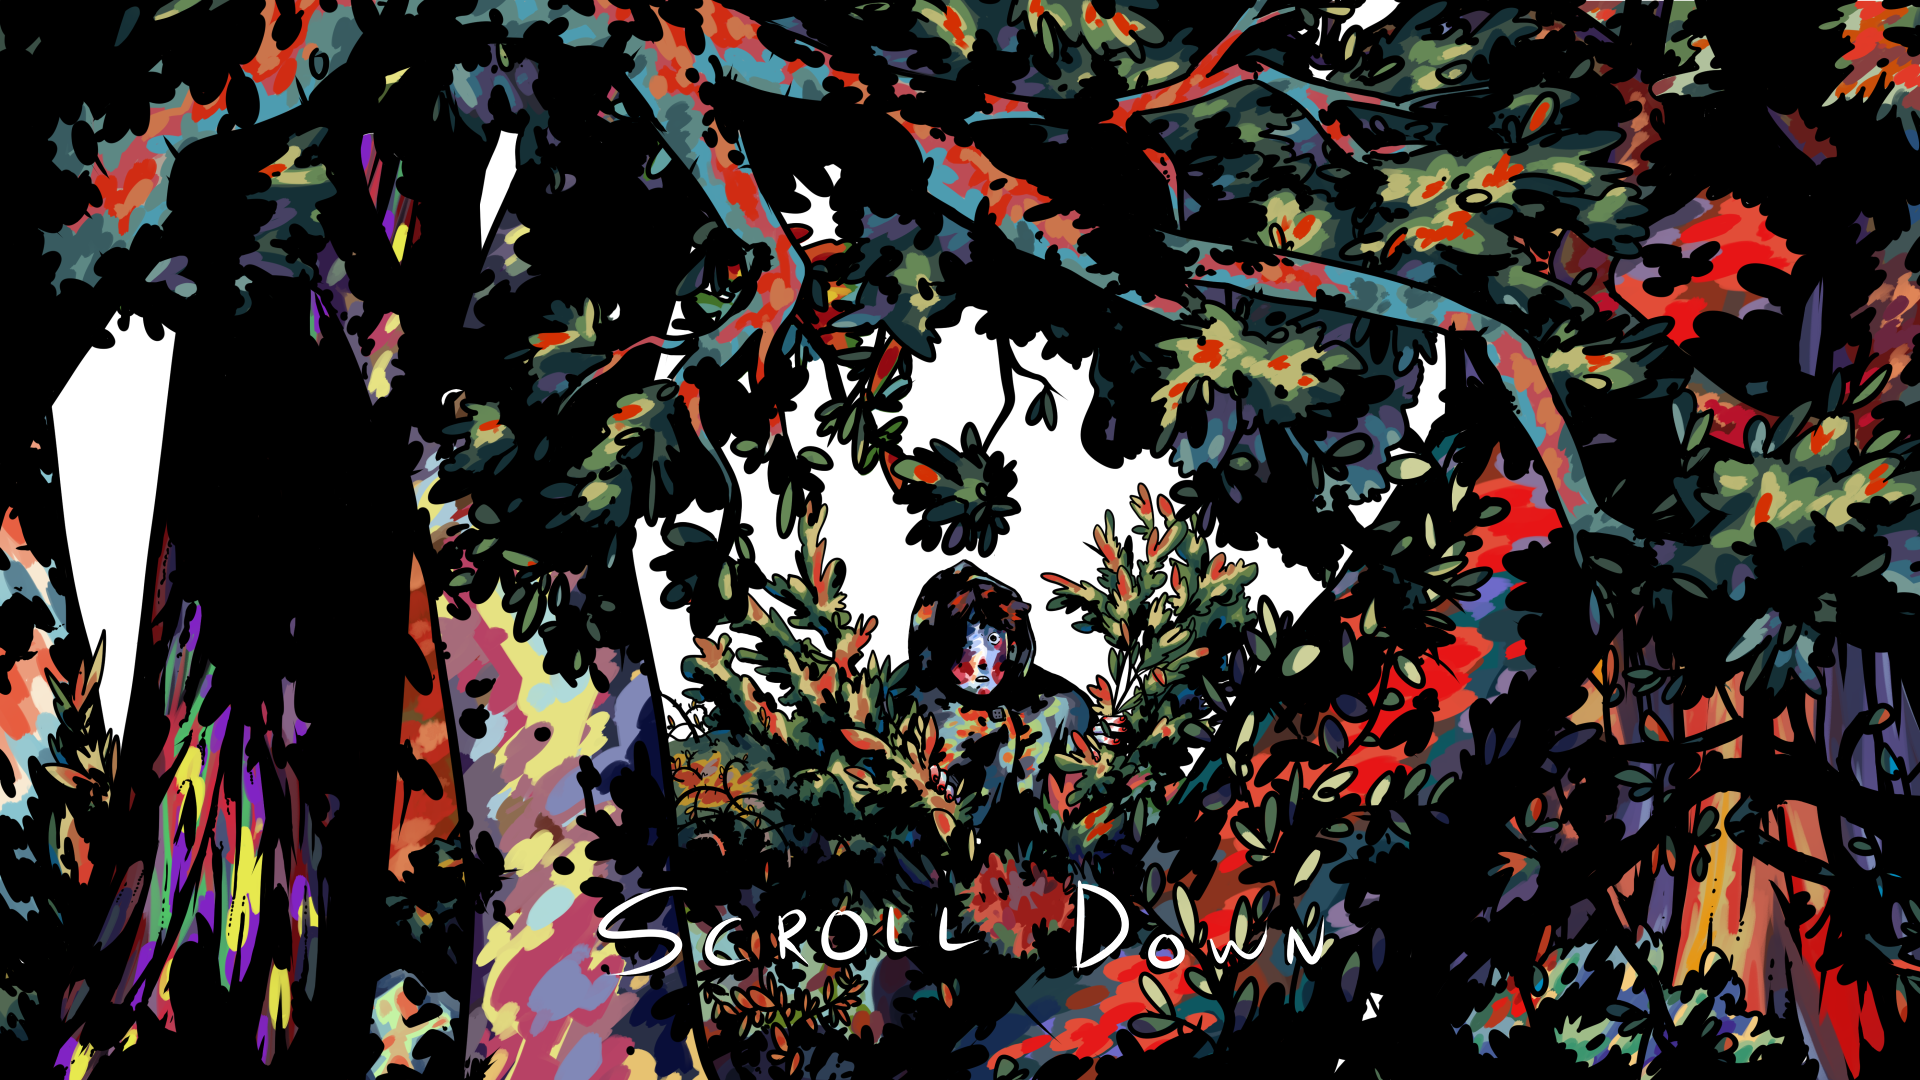
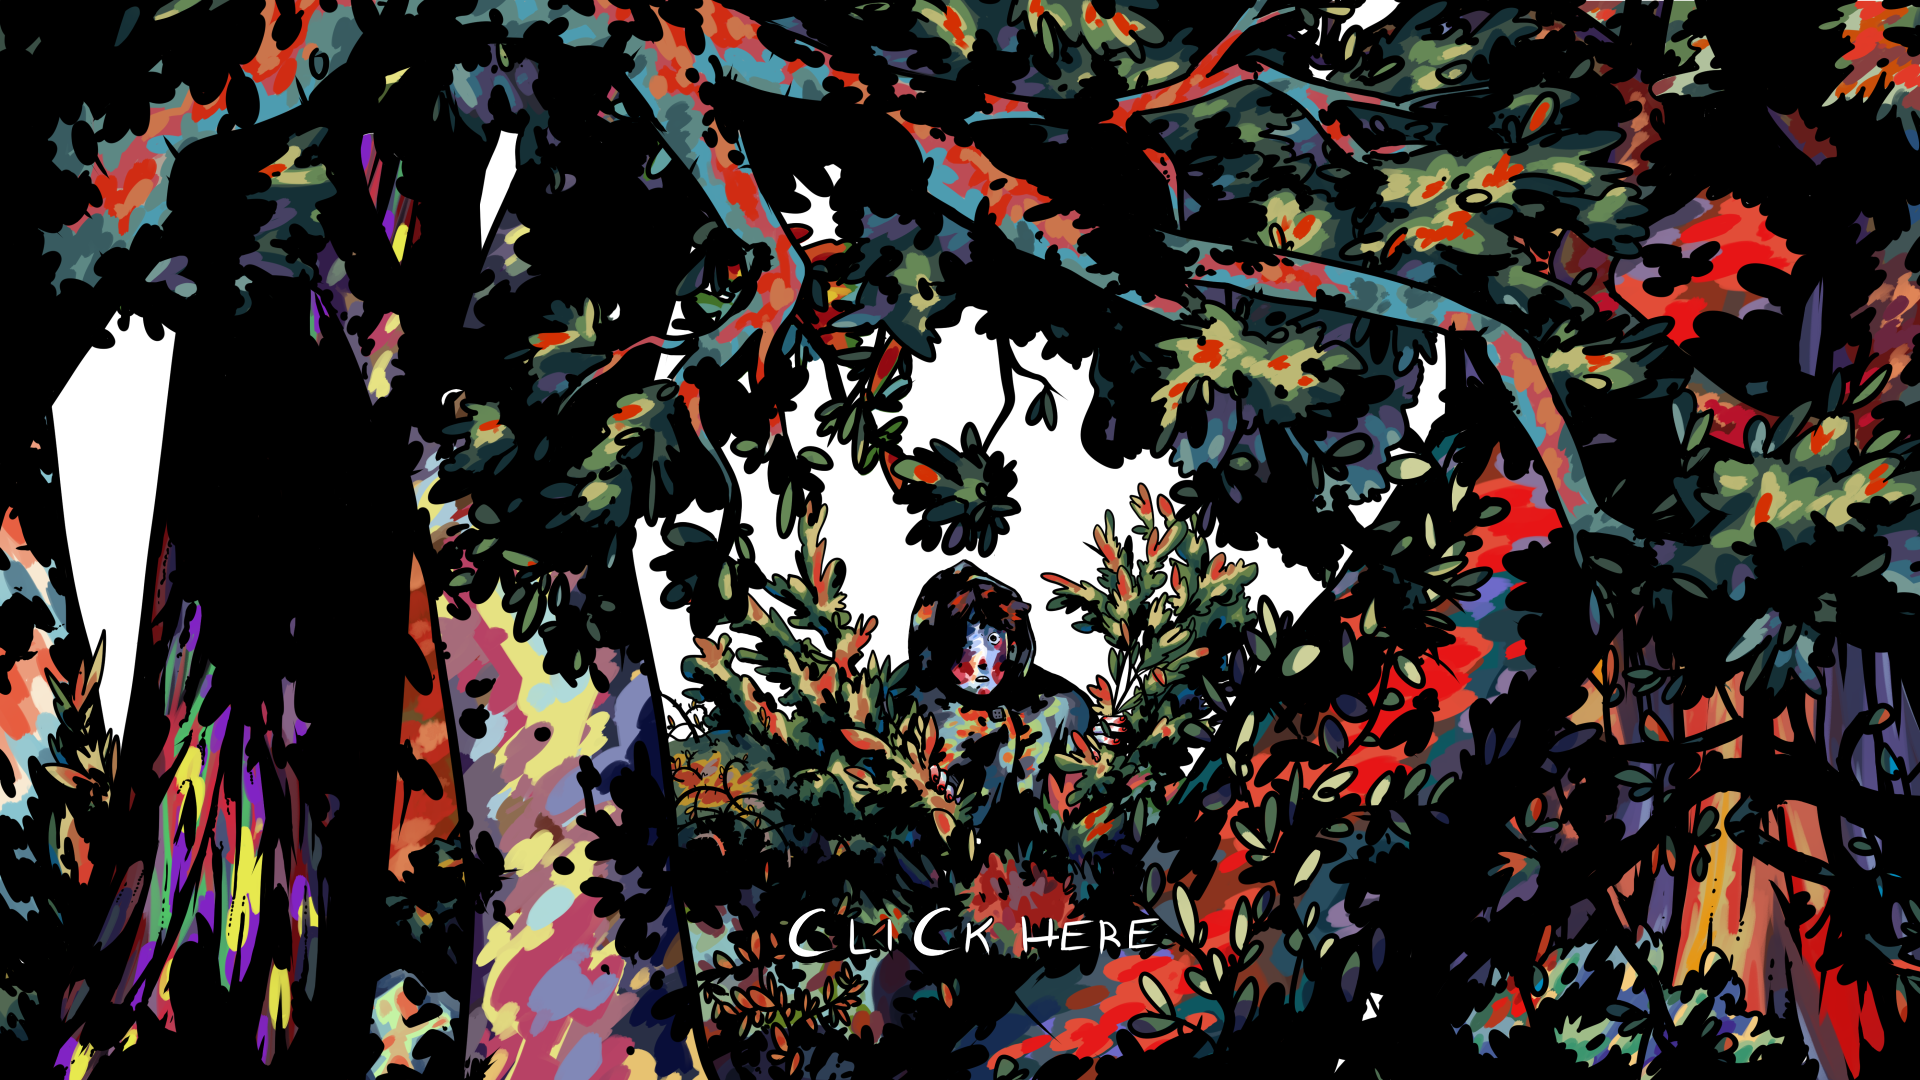
twilight market adjustment

Changed region(s): [[0.4062, 0.825, 0.6875, 0.9167], [0.3125, 0.825, 0.375, 0.9167]]

diff --git a/src/pages/index.tsx b/src/pages/index.tsx
@@ -41,6 +41,7 @@ const IndexPage: React.FC<PageProps> = () => {
   const [spyinterval, setSpyinterval] = useState<NodeJS.Timer>()
   const [introinterval, setIntroInterval] = useState<NodeJS.Timer>()
   const [cnt, setCnt] = useState(0)
+  const [twilightHome, setHome] = useState<boolean>(true)
 
   const [options, setOptions] = useState<boolean>(false)
 
@@ -79,6 +80,10 @@ const IndexPage: React.FC<PageProps> = () => {
     }else {
       return s.substring(0, Math.min(len, count - start - delay * 3))
     }
+  }
+
+  function handleClickHere() {
+    setHome(false)
   }
 
   function handleClick() {
@@ -312,87 +317,92 @@ const IndexPage: React.FC<PageProps> = () => {
               </div>
           </div>
           <div className="TwilightMarket">
-            <div className="image-stack">
+            {twilightHome && (
+              <div className="image-stack">
               <div className="shimmer1"><img className = "twilightimg" src={shimmer_1}/></div>
               <div className="main"><img className = "twilightimg" src={TwilightFrame}/></div>
               <div className="fog1"> <img className = "twilightimg" src={fog1}/></div>
               <div className="fog2"> <img className = "twilightimg" src={fog2}/></div>
               <div className="fog3"> <img className = "twilightimg" src={fog3}/></div>
+              <button className="twilightbutton" onClick={handleClickHere}> </button>
             </div>
-          </div>
-          <div className="macCollie">
-            <div className="image-stack-mcCollie">
-              <div className="main"> <img className = "twilightimg" src={dialogue_ui}/></div>
-              <div className="main"> <img className = "twilightimg" src={trees}/></div>
-              <div className="fog1"> <img className = "twilightimg" src={mcCollieFog}/></div>
-              <div className="fog2"> <img className = "twilightimg" src={mcCollieFog2}/></div>
-              {express == 1 && (
-                <React.Fragment>
-                  <div className ="bod"><img className = "twilightimg" src={bod}/> </div>
-                  <div className ="jaw"><img className = "twilightimg" src={jaw}/> </div>
-                  <div className ="head"><img className = "twilightimg" src={head}/> </div>
-                </React.Fragment>
-              )}
-              {express == 2 && (
-                <React.Fragment>
-                  <div className ="bod"><img className = "twilightimg" src={bod}/> </div>
-                  <div className ="jawtalking"><img className = "twilightimg" src={jaw}/> </div>
-                  <div className ="head"><img className = "twilightimg" src={head}/> </div>
-                </React.Fragment>
-              )}
-              {express == 3 && (
-                <React.Fragment>
-                  <div className ="bod"><img className = "twilightimg" src={angryBod}/> </div>
-                  <div className ="angryjaw"><img className = "twilightimg" src={angryJaw}/> </div>
-                  <div className ="angryhead"><img className = "twilightimg" src={angryHead}/> </div>
-                </React.Fragment>
-              )}
-              {express == 4 && (
-                <React.Fragment>
-                  <div className ="bod"><img className = "twilightimg" src={angryBod}/> </div>
-                  <div className ="angryjawtalking "><img className = "twilightimg" src={angryJaw}/> </div>
-                  <div className ="angryhead"><img className = "twilightimg" src={angryHead}/> </div>
-                </React.Fragment>
-              )}
-              {start && (
-                <React.Fragment>
-                  <button className = "startbutton" onClick={handleClick}>Who are you???</button>
-                  
-                </React.Fragment>
-              )}
-              {mcCollie && (
-                <div className = "McCollieIntro"> Hello Human. Name's McCollie. Welcome to the Twilight Market.</div>
-              )}
-              {what && (
-                <div className = "whatanswer"> The Twilight Market is a Dark Fantasy Visual Novel started in 2021</div>
-              )}
-              {work && (
-                <div className = "workanswer">Kenneth worked on UI, dialogue, enviorments, rigging, animations, etc</div>
-              )}
-              {artist && (
-                <div className = "artistanswer">My Buddy Calvin drew me! Check him out on instagram @calvin_beeman_weber </div>
-              )}
-              {finished && (
-                <div className = "finishedanswer"> HAA! No. It's a very much WIP. We are recently free so ...</div>
-              )}
-              {others && (
-                <div className = "otheranswer">Kenneth's friend Noah Dilworth is the other programmer!</div>
-              )}
-              {engine && (
-                <div className = "engineanswer">This game is built using the Godo game engine</div>
-              )}
-
-              {options && (
-                <React.Fragment>
-                    <button className = "what" onClick={handleWhat}>What is the Twilight Market?</button>
-                    <button className = "work" onClick={handleWork}>What did Kenneth Do?</button>
-                    <button className = "artist" onClick={handleArtist}>Who drew the Art?</button>
-                    <button className = "finsihed" onClick={handleFinished}>Is it done?</button>
-                    <button className = "others" onClick={handleOther}>Who else is working on this project?</button>
-                    <button className = "engine" onClick={handleEngine}>What engine was this made in?</button>
-                </React.Fragment>
-              )}
+            )}
+            {!twilightHome && (
+              <div className="macCollie">
+              <div className="image-stack-mcCollie">
+                <div className="main"> <img className = "twilightimg" src={dialogue_ui}/></div>
+                <div className="main"> <img className = "twilightimg" src={trees}/></div>
+                <div className="fog1"> <img className = "twilightimg" src={mcCollieFog}/></div>
+                <div className="fog2"> <img className = "twilightimg" src={mcCollieFog2}/></div>
+                {express == 1 && (
+                  <React.Fragment>
+                    <div className ="bod"><img className = "twilightimg" src={bod}/> </div>
+                    <div className ="jaw"><img className = "twilightimg" src={jaw}/> </div>
+                    <div className ="head"><img className = "twilightimg" src={head}/> </div>
+                  </React.Fragment>
+                )}
+                {express == 2 && (
+                  <React.Fragment>
+                    <div className ="bod"><img className = "twilightimg" src={bod}/> </div>
+                    <div className ="jawtalking"><img className = "twilightimg" src={jaw}/> </div>
+                    <div className ="head"><img className = "twilightimg" src={head}/> </div>
+                  </React.Fragment>
+                )}
+                {express == 3 && (
+                  <React.Fragment>
+                    <div className ="bod"><img className = "twilightimg" src={angryBod}/> </div>
+                    <div className ="angryjaw"><img className = "twilightimg" src={angryJaw}/> </div>
+                    <div className ="angryhead"><img className = "twilightimg" src={angryHead}/> </div>
+                  </React.Fragment>
+                )}
+                {express == 4 && (
+                  <React.Fragment>
+                    <div className ="bod"><img className = "twilightimg" src={angryBod}/> </div>
+                    <div className ="angryjawtalking "><img className = "twilightimg" src={angryJaw}/> </div>
+                    <div className ="angryhead"><img className = "twilightimg" src={angryHead}/> </div>
+                  </React.Fragment>
+                )}
+                {start && (
+                  <React.Fragment>
+                    <button className = "startbutton" onClick={handleClick}>Who are you???</button>
+                    
+                  </React.Fragment>
+                )}
+                {mcCollie && (
+                  <div className = "McCollieIntro"> Hello Human. Name's McCollie. Welcome to the Twilight Market.</div>
+                )}
+                {what && (
+                  <div className = "whatanswer"> The Twilight Market is a Dark Fantasy Visual Novel started in 2021</div>
+                )}
+                {work && (
+                  <div className = "workanswer">Kenneth worked on UI, dialogue, enviorments, rigging, animations, etc</div>
+                )}
+                {artist && (
+                  <div className = "artistanswer">My Buddy Calvin drew me! Check him out on instagram @calvin_beeman_weber </div>
+                )}
+                {finished && (
+                  <div className = "finishedanswer"> HAA! No. It's a very much WIP. We are recently free so ...</div>
+                )}
+                {others && (
+                  <div className = "otheranswer">Kenneth's friend Noah Dilworth is the other programmer!</div>
+                )}
+                {engine && (
+                  <div className = "engineanswer">This game is built using the Godo game engine</div>
+                )}
+  
+                {options && (
+                  <React.Fragment>
+                      <button className = "what" onClick={handleWhat}>What is the Twilight Market?</button>
+                      <button className = "work" onClick={handleWork}>What did Kenneth Do?</button>
+                      <button className = "artist" onClick={handleArtist}>Who drew the Art?</button>
+                      <button className = "finsihed" onClick={handleFinished}>Is it done?</button>
+                      <button className = "others" onClick={handleOther}>Who else is working on this project?</button>
+                      <button className = "engine" onClick={handleEngine}>What engine was this made in?</button>
+                  </React.Fragment>
+                )}
+              </div>
             </div>
+            )}
           </div>
           <div className="operationSpyfx">
             <div className="image-stack-spy">

diff --git a/src/style.css b/src/style.css
@@ -87,6 +87,8 @@ body {
 .image-stack {
     display: grid;
     position: relative;
+    grid-template-columns: repeat(20, 1fr);
+    grid-template-rows: repeat(23, 2vw);
 }
 
 
@@ -128,19 +130,26 @@ body {
 }
 
 .shimmer1 {
-    grid-column: 1;
-    grid-row: 1;
+    grid-column: 1 / -1;
+    grid-row: 1 / -1;
     z-index: 5;
     animation: shimmerframes .25s 0s infinite;
 }
 
-
-.scroll_down {
-    grid-column: 1;
-    grid-row: 1;
-    z-index: 7;
-
+.twilightbutton {
+  grid-row: 21 / span 2;
+  grid-column: 9 / span 4;
+  z-index: 7;
+  opacity: 0%;
+  background: gray;
+  border-radius: 2vw;
+  border: none;
 }
+
+.twilightbutton:hover {
+  opacity: 50%;
+}
+
 
 /* MacCollie interaction */
 .macCollie {
